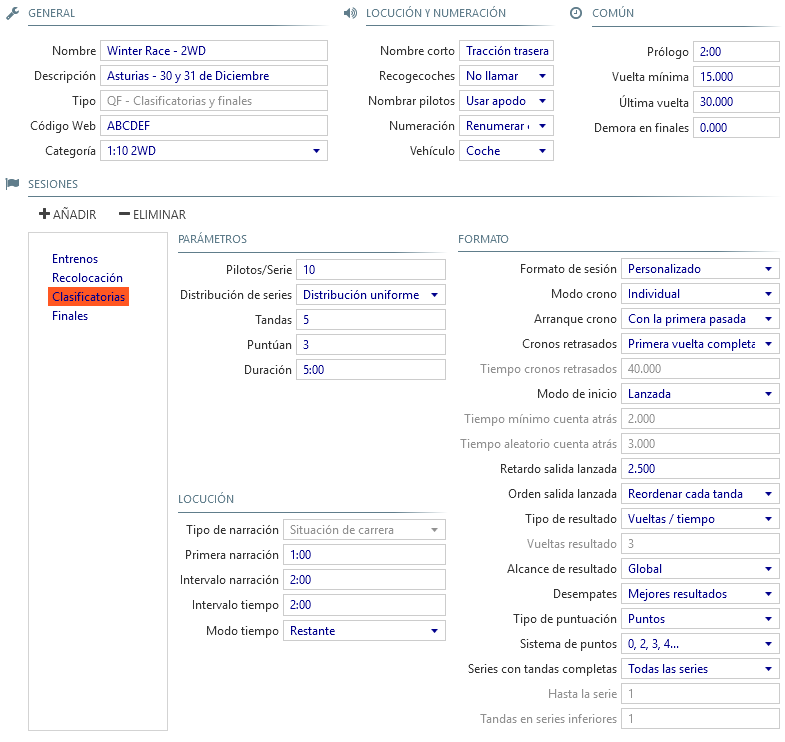
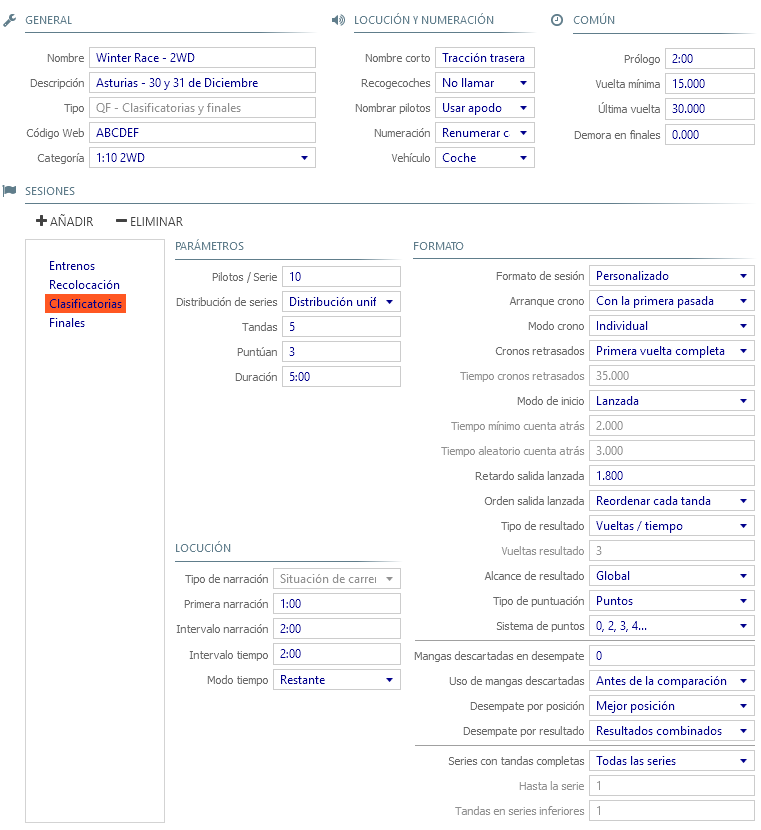
Updated qualy-finals format and image

diff --git a/docs/race-formats/qualify-finals.md b/docs/race-formats/qualify-finals.md
@@ -8,9 +8,7 @@ Por defecto se crean sesiones de entrenamiento, recolocación, clasificatorias y
 
 ---
 
-##### Campos de formato
-
-###### General
+##### General
 
 - **Nombre**: Identifica la carrera. Aparece en la parte superior de los informes y como identificador de las mangas.
 
@@ -21,6 +19,8 @@ Por defecto se crean sesiones de entrenamiento, recolocación, clasificatorias y
 - **Código web**: El código web se obtiene de la página web de [Everlaps](http://everlaps.com) y permite relacionar la carrera publicada en la página web para que se puedan publicar los resultados y habilitar el envío de datos al sistema de *Live Timing*.
 
 - **Categoría**: Identifica la categoría de la carrera para elegir el transponder más adecuado durante las inscripciones manuales de pilotos.
+
+---
 
 ##### Locución
 
@@ -43,6 +43,8 @@ Por defecto se crean sesiones de entrenamiento, recolocación, clasificatorias y
 
 - **Vehículo**: Establece el nombre de vehículo en las locuciones y listados (Coche o Moto)
 
+---
+
 ##### Común
 
 - **Prólogo**: Tiempo que transcurre desde que se pulsa el botón de inicio de manga (Start), hasta que ésta arranca.
@@ -56,13 +58,17 @@ Por defecto se crean sesiones de entrenamiento, recolocación, clasificatorias y
 
 - **Demora en finales**: Para las finales, establece un tiempo desde el inicio de la manga durante el cual las pasadas por línea de meta no se contabilizan. Ésto es útil para los circuitos en dónde la parrilla de salida atraviesa la línea de meta para evitar que los pilotos que salgan por detrás de la línea de meta reciban una vuelta más tras el comienzo de la manga.
 
-##### Sesiones
+---
 
-#### Acciones disponibles
+#### Sesiones
+
+##### Acciones disponibles
 
 - **Eliminar**: Permite eliminar la sesión seleccionada.
 
-#### Parámetros
+---
+
+##### Parámetros
 
 - **Pilotos/Serie**: Número de pilotos que se desea en cada serie cuando la distribución se realiza de forma automática con la opción *Generar* del panel de [series](../user-guide/races/index.html#series). En la pestaña de gestión de series se puede alterar con total libertad la distribución de pilotos, por lo cual este valor no es definitivo.
 
@@ -81,6 +87,8 @@ Por defecto se crean sesiones de entrenamiento, recolocación, clasificatorias y
 - **Puntúan**: Número de mangas que puntúan para el resultado de la sesión.
 
 - **Duración**: Tiempo de duración de las mangas.
+
+---
 
 ##### Locución
 
@@ -104,6 +112,8 @@ Por defecto se crean sesiones de entrenamiento, recolocación, clasificatorias y
 	- **Transcurrido**: Utiliza el tiempo transcurrido desde el inicio de la manga.
 	- **Restante**: Utiliza el tiempo restante para el final de la manga.
 
+---
+
 ##### Formato
 
 - **Formato de sesión**: Define los parámetros de configuración de sesión más habituales en el cronometraje, y también se permite un ajuste personalizado de cada uno de los parámetros.
@@ -117,6 +127,8 @@ Por defecto se crean sesiones de entrenamiento, recolocación, clasificatorias y
 	- **Finales**: Salida desde parado y en orden de parrilla, con el arranque del cronómetro en el instante de sonido de la bocina.
 	
 	- **Entrenos (puntos o mejor resultado)**: Similar a la clasificatoria volante, pero el crono se inicia con el sonido de la bocina en vez de esperar a la primera pasada.
+
+---
 
 ##### Formato personalizado
 
@@ -179,24 +191,28 @@ Permite configurar cada uno de los parámetros.
 
 - **Sistema de puntos**: Establece el sistema de puntuación de entre los soportados por el programa.
 
-- **Desempates**: En caso de que varios pilotos obtengan exactamente el mismo resultado en el global de las mangas a contabilizar para la sesión, se establece el siguiente sistema de desempate.
+---
 
-	- **Mangas descartadas en desempate**: Cuántas mangas descartadas se utilizarán para resolver el desempate. El valor 0 indica que no se utilizará ninguna manga descartada.
-	- **Uso de mangas descartadas**: Establece en qué momento se utilizan los resultados de las mangas descartadas.
-		- **Antes de la comparación individual de mangas válidas**: Se utiliza la comparación individual de las mangas descartadas ANTES de la comparación individual de las mangas válidas.
-		- **Después de la comparación individual de mangas válidas**: Se utiliza la comparación individual de las mangas descargadas DESPUÉS de la comparación individual de las mangas válidas. *Por ejemplo, en una clasificatorias de 5 tandas en donde puntúan las 3 mejores y no pudiendo resolver el desempate se utilizaría la cuarta mejor manga de los pilotos, y en caso de seguir el empate, la quinta mejor manga, antes de comparar las posiciones de las tres mejores mangas.*
-	- **Desempate por posición**: Establece el modo de comparación individual por posición obtenida en cada una de las mangas (sólo si el resultado es por puntos)
-		- **Mejor posición**: Utiliza el modo de comparación por posición obtenida.
-		- **No usar**: No utilizar el desempate por posición.
-	- **Desempate por resultado**: Establece el modo de comparación individual por resultado en vueltas/tiempo para cada una de las mangas.
-		- **Mejor resultado**: Se realiza la comparación individual de mangas por el resultado en vueltas/tiempo.
-		- **Resultados combinados**: El desempate se realiza por la suma de vueltas y tiempo de todas las mangas válidas.
-		
-	!!! info "Resolución de empates por comparación individual"
-		En el caso de que varios pilotos obtengan el mismo resultado en puntos (o vueltas/tiempo), se establece el siguiente proceso de resolución:
+**DESEMPATES**: En caso de que varios pilotos obtengan exactamente el mismo resultado en el global de las mangas a contabilizar para la sesión, se establece el siguiente sistema de desempate.
 
-		- Gana el piloto con una mejor posición en su mejor manga. Si persiste el empate se compara la segunda mejor manga, y así sucesivamente hasta el número de mangas que puntúan (sólo si el resultado es por puntos)
-		- Si siguen empatados, gana el piloto con mejor resultado (vueltas/tiempo) en su mejor manga. Si persiste el empate se compara la segunda mejor manga, y así sucesivamente hasta el número de mangas que puntúan. 
+- **Mangas descartadas en desempate**: Cuántas mangas descartadas se utilizarán para resolver el desempate. El valor 0 indica que no se utilizará ninguna manga descartada.
+- **Uso de mangas descartadas**: Establece en qué momento se utilizan los resultados de las mangas descartadas.
+	- **Antes de la comparación individual de mangas válidas**: Se utiliza la comparación individual de las mangas descartadas ANTES de la comparación individual de las mangas válidas.
+	- **Después de la comparación individual de mangas válidas**: Se utiliza la comparación individual de las mangas descargadas DESPUÉS de la comparación individual de las mangas válidas. *Por ejemplo, en una clasificatorias de 5 tandas en donde puntúan las 3 mejores y no pudiendo resolver el desempate se utilizaría la cuarta mejor manga de los pilotos, y en caso de seguir el empate, la quinta mejor manga, antes de comparar las posiciones de las tres mejores mangas.*
+- **Desempate por posición**: Establece el modo de comparación individual por posición obtenida en cada una de las mangas (sólo si el resultado es por puntos)
+	- **Mejor posición**: Utiliza el modo de comparación por posición obtenida.
+	- **No usar**: No utilizar el desempate por posición.
+- **Desempate por resultado**: Establece el modo de comparación individual por resultado en vueltas/tiempo para cada una de las mangas.
+	- **Mejor resultado**: Se realiza la comparación individual de mangas por el resultado en vueltas/tiempo.
+	- **Resultados combinados**: El desempate se realiza por la suma de vueltas y tiempo de todas las mangas válidas.
+	
+!!! info "Resolución de empates por comparación individual"
+	En el caso de que varios pilotos obtengan el mismo resultado en puntos (o vueltas/tiempo), se establece el siguiente proceso de resolución:
+
+	- Gana el piloto con una mejor posición en su mejor manga. Si persiste el empate se compara la segunda mejor manga, y así sucesivamente hasta el número de mangas que puntúan (sólo si el resultado es por puntos)
+	- Si siguen empatados, gana el piloto con mejor resultado (vueltas/tiempo) en su mejor manga. Si persiste el empate se compara la segunda mejor manga, y así sucesivamente hasta el número de mangas que puntúan. 
+
+---
 
 - **Series con tandas completas**: Establece una división en cuanto al número de mangas que puntúan para cada serie. Esto es útil para, por ejemplo en finales, permitir que la serie A corra 3 finales puntuando 2 de ellas, y las series de la B en adelante sólo una única final.
 
